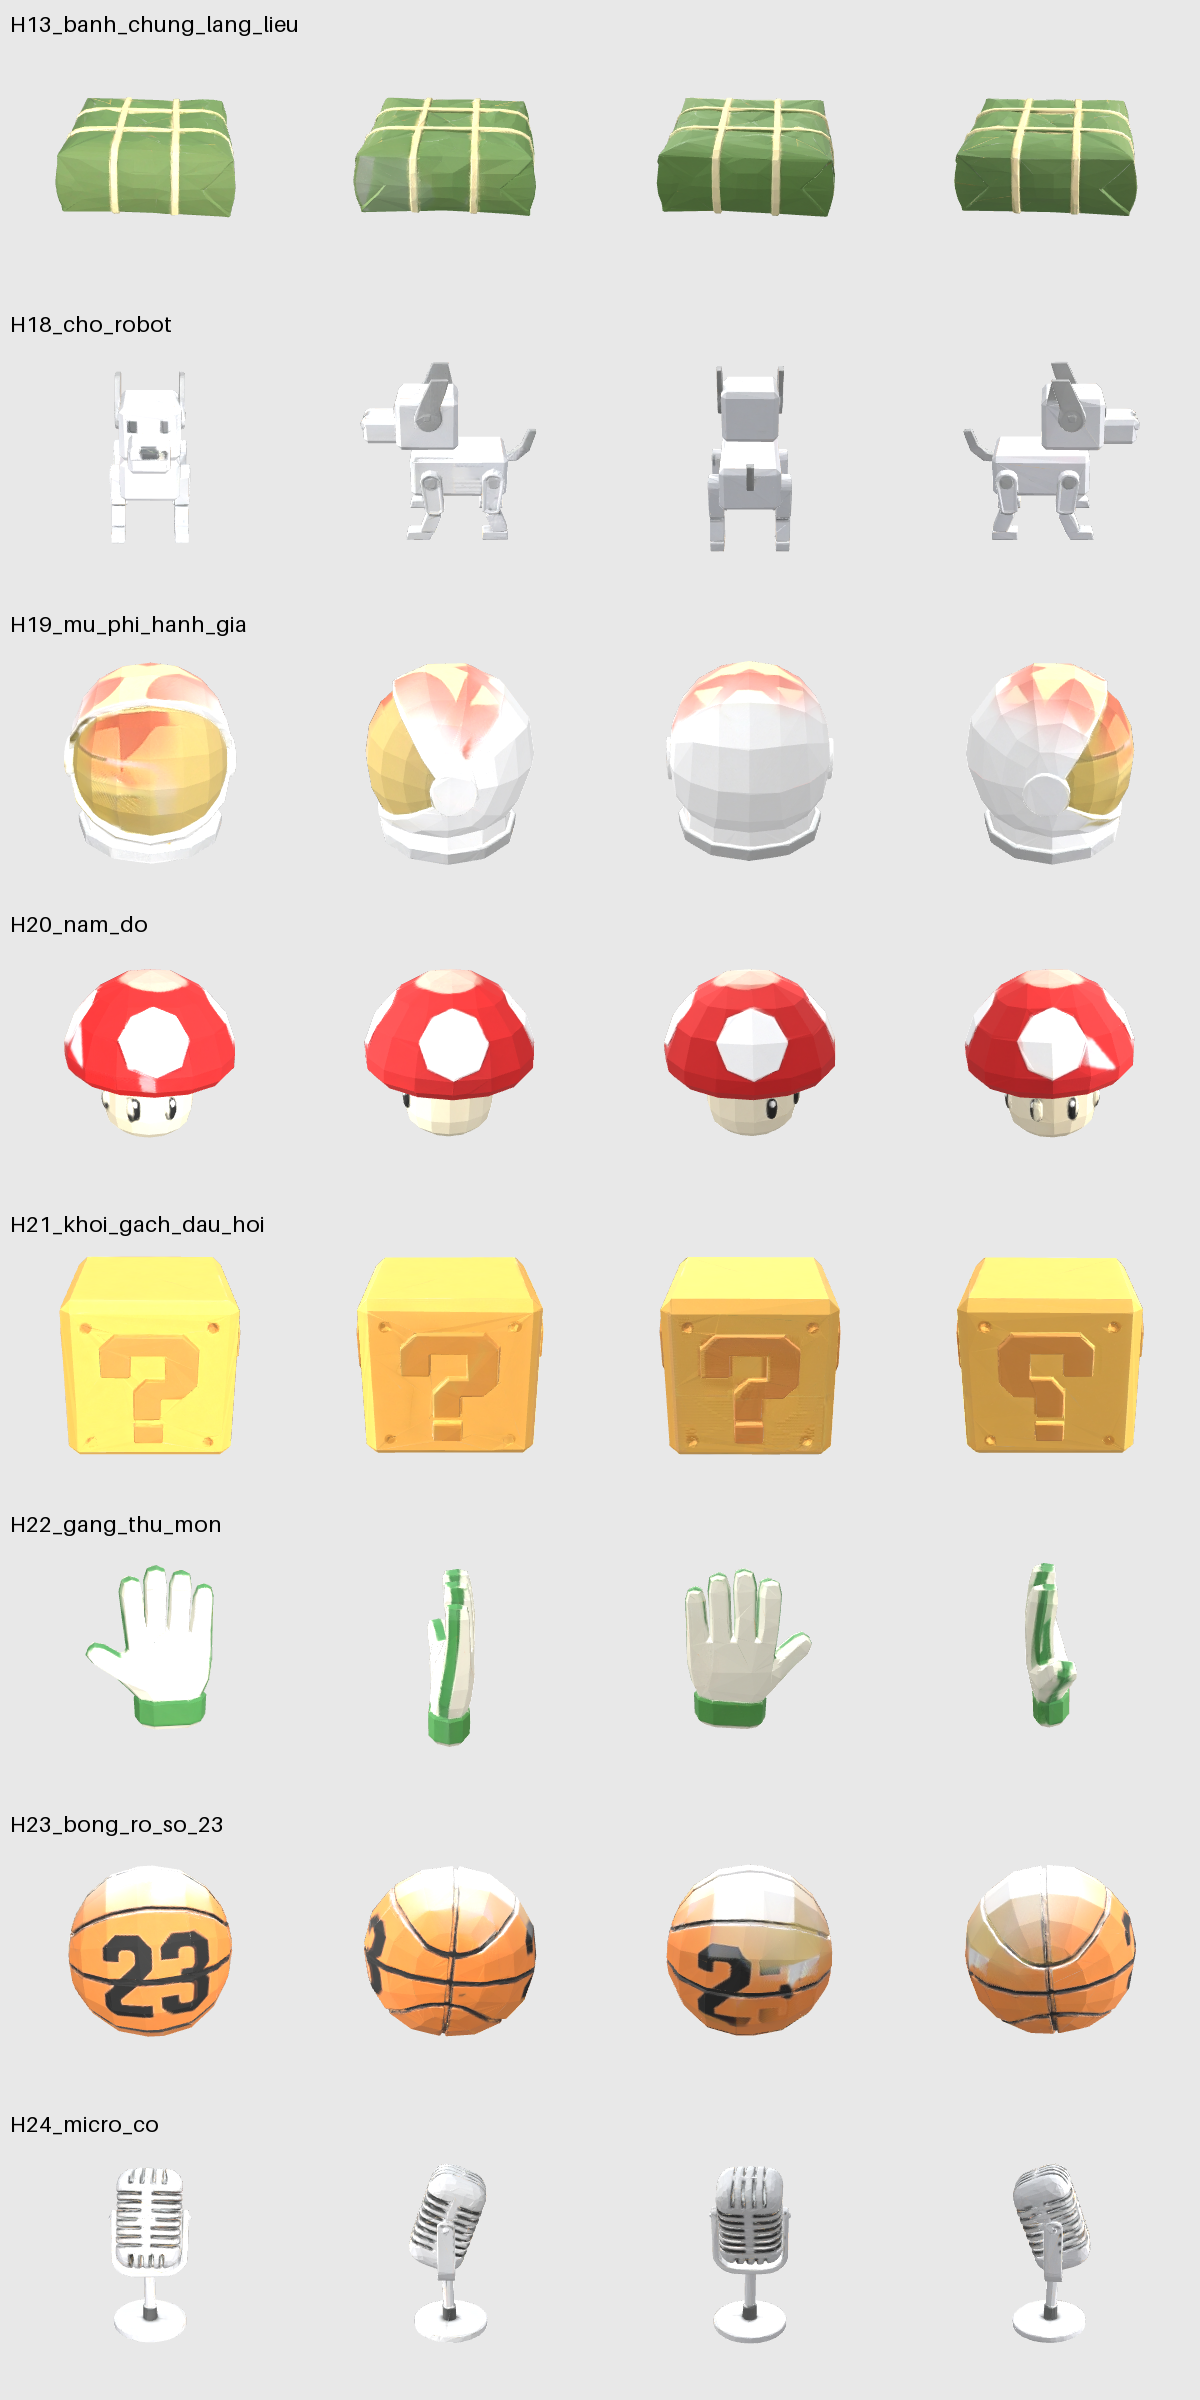
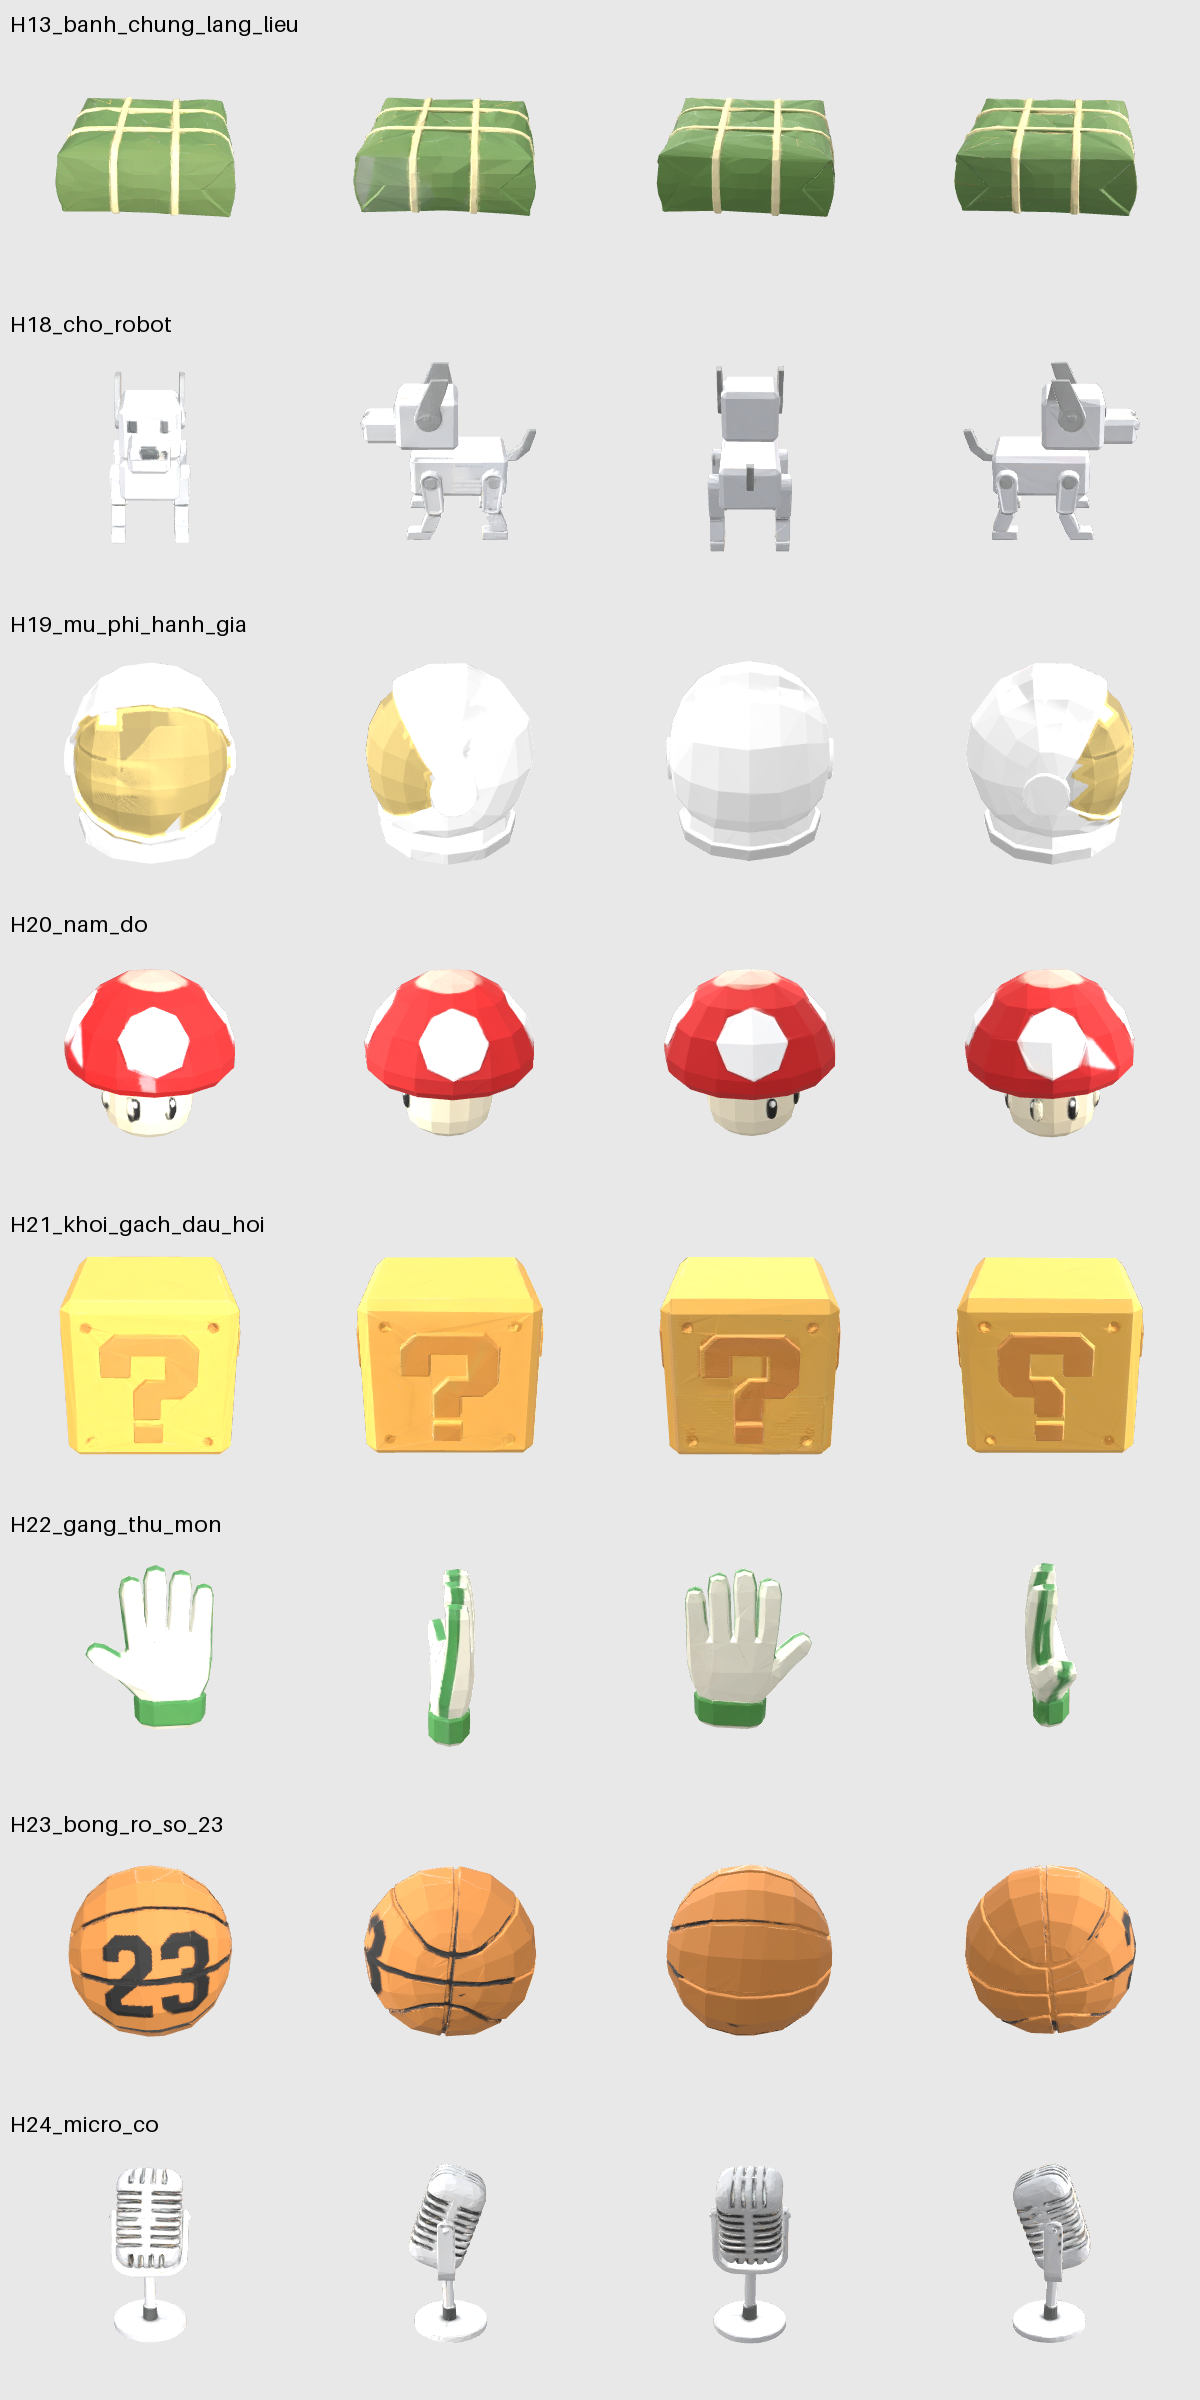
art: repaint H19 helmet and H23 basketball textures
Claude-Session: https://claude.ai/code/session_01QKQCdZLgxxTjK5ewCTqNKH

diff --git a/Tools/Meshy/retex/fix_helm.py b/Tools/Meshy/retex/fix_helm.py
@@ -1,0 +1,23 @@
+from recolor import *
+import sys
+m,tex=load(sys.argv[1]);H,W=tex.shape[:2];P=facemasks(m,W,H)
+cols=np.array([face_mean(tex,p) for p in P]);h,s,v=hsv(cols)
+gold=(h>35)&(h<60)&(s>0.35);gc=np.median(cols[gold],0)
+n=m.face_normals;c=m.triangles_center-m.bounds.mean(0)
+vd=n[gold].mean(0);vd/=np.linalg.norm(vd)
+fr=(c/np.linalg.norm(c,axis=1)[:,None])@vd
+warm=((h<62)|(h>300))&(s>0.12)
+yel=(h>30)&(h<66)&(s>0.08); pink=((h<32)|(h>300))&(s>0.12)
+visor=(gold&(fr>0.3))|((yel|pink)&(fr>0.62))|(fr>0.8)
+adj=m.face_adjacency
+for it in range(4):
+    cnt=np.zeros(len(visor));np.add.at(cnt,adj[:,0],visor[adj[:,1]]);np.add.at(cnt,adj[:,1],visor[adj[:,0]])
+    visor=visor|((cnt>=2)&(fr>0.4))
+    visor=visor&~((cnt==0))
+print("visor faces",visor.sum())
+def to_white(px):
+    lum=px.mean(1,keepdims=True);return np.repeat(np.clip(lum*1.05+20,190,240),3,1)
+def to_gold(px):
+    lum=px.mean(1,keepdims=True);return gc*np.clip(lum/gc.mean(),0.8,1.15)
+tex=paint(tex,[P[i] for i in range(len(P)) if not visor[i]],to_white)
+tex=paint(tex,[P[i] for i in range(len(P)) if visor[i]],to_gold);save(m,tex,sys.argv[2])

diff --git a/Tools/Meshy/retex/recolor.py b/Tools/Meshy/retex/recolor.py
@@ -1,0 +1,22 @@
+import sys,colorsys,numpy as np,trimesh
+from PIL import Image,ImageDraw
+def load(p):
+    s=trimesh.load(p);m=list(s.geometry.values())[0]
+    return m,np.asarray(m.visual.material.baseColorTexture.convert("RGB")).astype(float)
+def facemasks(m,W,H):
+    uv=m.visual.uv[m.faces]; return [[(x*W,(1-y)*H) for x,y in t] for t in uv]
+def face_mean(tex,poly):
+    xs=[p[0] for p in poly];ys=[p[1] for p in poly]
+    cx,cy=int(np.mean(xs)),int(np.mean(ys));H,W=tex.shape[:2]
+    return tex[min(max(cy,0),H-1),min(max(cx,0),W-1)]
+def paint(tex,polys,fn):
+    H,W=tex.shape[:2];mk=Image.new("L",(W,H),0);d=ImageDraw.Draw(mk)
+    for p in polys: d.polygon(p,fill=255)
+    mk=np.asarray(mk.filter(__import__("PIL.ImageFilter").ImageFilter.MaxFilter(5)))>0
+    tex[mk]=fn(tex[mk]);return tex
+def save(m,tex,out):
+    m.visual.material.baseColorTexture=Image.fromarray(np.clip(tex,0,255).astype(np.uint8))
+    m.export(out)
+def hsv(px):
+    a=px/255.;mx=a.max(1);mn=a.min(1);s=np.where(mx>0,(mx-mn)/np.maximum(mx,1e-6),0)
+    h=np.array([colorsys.rgb_to_hsv(*c)[0]*360 for c in a]);return h,s,mx

diff --git a/Tools/Meshy/retex/fix_ball.py b/Tools/Meshy/retex/fix_ball.py
@@ -1,0 +1,21 @@
+from recolor import *
+import sys
+m,tex=load(sys.argv[1]);H,W=tex.shape[:2];P=facemasks(m,W,H)
+cols=np.array([face_mean(tex,p) for p in P]);h,s,v=hsv(cols)
+oc=np.median(cols[(h>15)&(h<40)&(s>0.5)],0)
+def fix(px):
+    lum=px.mean(1);out=px.copy();out[lum>=95]=oc
+    out[lum<95]=np.minimum(px[lum<95],40);return out
+tex=paint(tex,P,fix);save(m,tex,sys.argv[2])
+# remove stray number on back
+m2,tex2=m,tex
+cols=np.array([face_mean(tex2,p) for p in P]);dark=cols.mean(1)<70
+c=m.triangles_center-m.bounds.mean(0);u=c/np.linalg.norm(c,axis=1)[:,None]
+vd=u[dark].mean(0)
+# front number dir = dark faces with largest cluster; use those with u.y in mid band
+mid=dark&(np.abs(u[:,1])<0.35);fd=u[mid].mean(0);fd[1]=0;fd/=np.linalg.norm(fd)
+print("front dir",fd.round(2))
+back=[P[i] for i in range(len(P)) if (u[i]@fd< -0.1) and abs(u[i,1])<0.45]
+def clean(px):
+    out=px.copy();out[px.mean(1)<95]=oc;return out
+tex2=paint(tex2,back,clean);save(m,tex2,sys.argv[2])

diff --git a/Tools/Meshy/README.md b/Tools/Meshy/README.md
@@ -13,3 +13,5 @@ Chạy trong thư mục làm việc tạm (scratchpad), không trong repo:
 Món lỗi (mất, dính nhau, không nhận ra): **không làm lại riêng lẻ**; ghi vào danh sách làm lại trong `Docs/Art/BanGiao3D.md`, chỉ chạy khi đủ 8 món hoặc không còn món nào khác.
 
 Mẹo: để mỗi món đứng riêng, không hộp, không ma-nơ-canh, không giá đỡ (dễ bị mất hoặc dính). Logo thật trong ảnh nguồn thì xóa (inpaint) trước khi dựng 3D. Kim tuyến, đồ trong suốt không giữ được.
+
+Lỗi màu nhỏ (vệt, nhòe texture): tô lại tại chỗ bằng `Tools/Meshy/retex/` (`python3 fix_helm.py vao.glb ra.glb`, xem `fix_ball.py` làm mẫu), không tốn credit.
